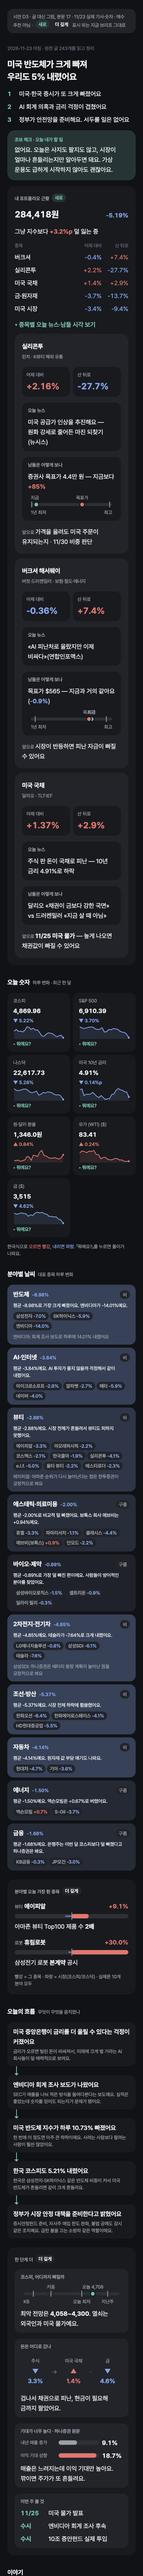
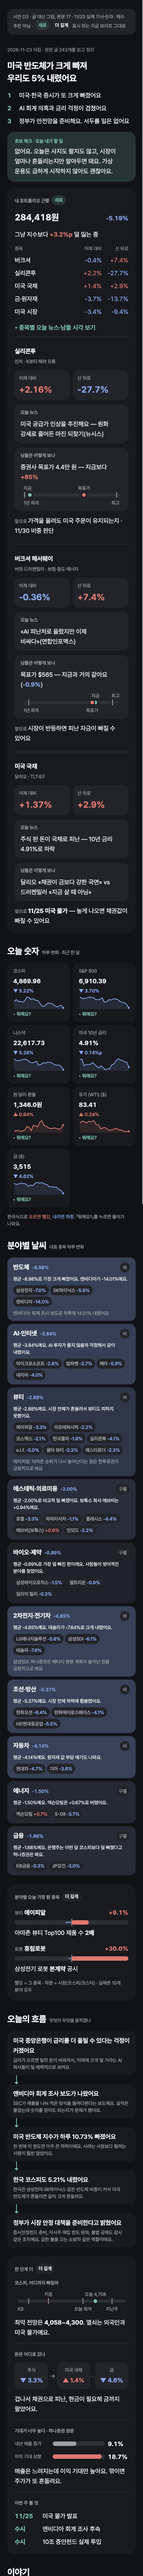
투자 보드: D3 점검 반영

Changed region(s): [[0.0308, 0.0, 0.9538, 1.0], [0.9846, 0.0, 1.0, 0.4671], [0.7692, 0.0934, 0.8923, 0.1246]]

diff --git a/m/dc11e64a669340ed/board/boards/brief-develop/d3.html b/m/dc11e64a669340ed/board/boards/brief-develop/d3.html
@@ -11,7 +11,7 @@
  --grey-50:#101215;--grey-100:#181a1e;--grey-200:#212429;--grey-300:#2c3036;--grey-400:#464c55;
  --grey-500:#6c737d;--grey-600:#9aa1aa;--grey-700:#c2c7ce;--grey-900:#eef0f2;
  --bg:var(--grey-50);--card:var(--grey-100);--subtle:var(--grey-200);--line:var(--grey-300);
- --weak:var(--grey-500);--sub:var(--grey-600);--fg:var(--grey-900);
+ --weak:#8b929b;--sub:var(--grey-600);--fg:var(--grey-900);
  --pri:#5fc2ae;--pri-s:color-mix(in srgb,var(--pri) 16%,var(--card));
  --up:#f0706a;--up-s:color-mix(in srgb,var(--up) 16%,var(--card));
  --down:#7ea6f2;--down-s:color-mix(in srgb,var(--down) 16%,var(--card));
@@ -24,7 +24,8 @@ body{margin:0;background:var(--bg);color:var(--fg);font-family:var(--font);font-
  padding:24px max(20px,env(safe-area-inset-right,0px)) 64px max(20px,env(safe-area-inset-left,0px))}
 h1,h2,h3,h4,p{margin:0}
 h1{font-size:24px;line-height:34px;font-weight:700;letter-spacing:-0.02em}
-h2,h3{font-size:17px;line-height:27px;font-weight:700;letter-spacing:-0.02em}
+h2{font-size:24px;line-height:34px;font-weight:700;letter-spacing:-0.02em}
+h3{font-size:17px;line-height:27px;font-weight:700;letter-spacing:-0.02em}
 h4{font-size:13px;line-height:19px;font-weight:600;color:var(--sub)}
 small,.cap,.note{font-size:13px;line-height:19px}
 .cap{color:var(--weak)} .note{color:var(--sub)} .sub{color:var(--sub)}
@@ -41,7 +42,7 @@ details>summary::before{content:"▸ ";} details[open]>summary::before{content:"
 ul{margin:0;padding-left:20px}
 .card{background:var(--card);border-radius:var(--r-card);padding:20px;display:flex;flex-direction:column;gap:12px}
 .in{background:var(--subtle);border-radius:var(--r-btn);padding:12px 16px}
-.chip{display:inline-block;font-size:13px;line-height:19px;font-weight:600;border-radius:var(--r-chip);padding:2px 8px;background:var(--subtle);color:var(--sub);white-space:nowrap}
+.chip{display:inline-block;font-size:13px;line-height:19px;font-weight:600;border-radius:var(--r-chip);padding:4px 8px;background:var(--subtle);color:var(--sub);white-space:nowrap}
 .chip.ok{background:var(--pri-s);color:var(--pri)} .chip.bad{background:var(--up-s);color:var(--up)}
 .row{display:flex;justify-content:space-between;align-items:baseline;gap:12px}
 @media (prefers-reduced-motion:reduce){*{transition:none!important}}
@@ -50,7 +51,7 @@ ul{margin:0;padding-left:20px}
 .wrap{max-width:560px;margin:0 auto;display:flex;flex-direction:column;gap:32px}
 h1{text-wrap:balance}
 h2{display:flex;align-items:baseline;gap:8px;flex-wrap:wrap}
-h2 small{color:var(--sub);font-weight:400}
+h2 small{color:var(--sub);font-weight:400;font-size:13px;line-height:19px}
 .eyebrow{font-size:13px;line-height:19px;color:var(--weak)}
 section{display:flex;flex-direction:column;gap:16px}
 .top{display:flex;flex-direction:column;gap:16px}
@@ -79,7 +80,7 @@ section{display:flex;flex-direction:column;gap:16px}
 .sec .hd{display:flex;align-items:baseline;gap:8px;flex-wrap:wrap;color:var(--fg)}
 .sec .hd b{font-weight:700}
 .sec .hd .avg{font-size:13px;line-height:19px;font-weight:600;font-variant-numeric:tabular-nums}
-.sec .mood{margin-left:auto;font-size:13px;line-height:19px;border-radius:var(--r-chip);padding:2px 8px;color:var(--sub);background:var(--subtle)}
+.sec .mood{margin-left:auto;font-size:13px;line-height:19px;border-radius:var(--r-chip);padding:4px 8px;color:var(--sub);background:var(--subtle)}
 .sec .ln{font-size:13px;line-height:19px;color:var(--fg)}
 .chips{display:flex;flex-wrap:wrap;gap:4px}
 .chip i{font-style:normal}
@@ -140,7 +141,7 @@ footer{font-size:13px;line-height:19px;color:var(--weak)}
 @media (prefers-reduced-motion:no-preference){.node,.story{transition:opacity .2s}}
 </style>
 <style>
-.mk{display:inline-block;font-size:13px;line-height:19px;font-weight:600;border-radius:999px;padding:2px 8px;background:var(--pri-s);color:var(--pri);margin-left:4px;vertical-align:2px}
+.mk{display:inline-block;font-size:13px;line-height:19px;font-weight:600;border-radius:999px;padding:4px 8px;background:var(--pri-s);color:var(--pri);margin-left:4px;vertical-align:2px}
 .mk.deep{background:var(--subtle);color:var(--fg)}
 .lab{font-size:13px;line-height:19px;color:var(--sub)}
 .cardx{background:var(--card);border-radius:var(--r-card);padding:20px;display:flex;flex-direction:column;gap:16px}
@@ -180,6 +181,9 @@ footer{font-size:13px;line-height:19px;color:var(--weak)}
 .pfrow{display:grid;grid-template-columns:1fr auto auto;gap:8px 16px;align-items:baseline}
 .pfrow .r{text-align:right;font-variant-numeric:tabular-nums}
 .pfrow .h{font-size:13px;line-height:19px;color:var(--weak);text-align:right}
+.hold{display:flex;flex-direction:column;gap:12px;padding-top:24px;border-top:1px solid var(--line)}
+.part{display:flex;flex-direction:column;gap:12px;padding-top:20px;border-top:1px solid var(--line)}.part:first-of-type{padding-top:0;border-top:0}
+.part .t{font-size:13px;line-height:19px;font-weight:600;color:var(--sub)}
 .leg{background:var(--subtle);border-radius:var(--r-btn);padding:12px 16px}
 </style></head><body>
 
@@ -198,21 +202,21 @@ footer{font-size:13px;line-height:19px;color:var(--weak)}
 <span>미국 국채</span><span class="r up">+1.4%</span><span class="r up">+2.9%</span>
 <span>금·원자재</span><span class="r down">-3.7%</span><span class="r down">-13.7%</span>
 <span>미국 시장</span><span class="r down">-3.4%</span><span class="r down">-9.4%</span></div>
-<details><summary style="font-size:17px;line-height:27px">종목별 오늘 뉴스·남들 시각 보기</summary><div style="display:flex;flex-direction:column;gap:12px;margin-top:12px">
-<div class="cardx" style="background:var(--subtle)"><div class="hd2"><div><h3 style="margin:0">실리콘투</h3><span class="lab">린치 · K뷰티 해외 유통</span></div></div>
-<div class="tiles2"><div class="tl" style="background:var(--card)"><span class="lab">어제 대비</span><span class="v num up">+2.16%</span></div><div class="tl" style="background:var(--card)"><span class="lab">산 뒤로</span><span class="v num down">-27.7%</span></div></div>
-<div class="box" style="background:var(--card)"><span class="t">오늘 뉴스</span><p class="say">미국 공급가 인상을 추진해요 — 원화 강세로 줄어든 마진 되찾기(뉴시스)</p></div>
-<div class="box" style="background:var(--card)"><span class="t">남들은 어떻게 보나</span><p class="say">증권사 목표가 4.4만 원 — 지금보다 <b class='up'>+85%</b></p><div class="gauge"><div class="ln"></div><div class="tk" style="left:1.2070308154410947%"></div><span class="lb dn" style="left:0;transform:none">1년 최저</span><div class="tk" style="left:96.87951941261542%"></div><span class="lb dn" style="right:0;left:auto;transform:none">최고</span><div class="pt" style="left:6.769384803648905%;background:var(--pri)"></div><span class="lb up" style="left:0;transform:none">지금</span><div class="pt" style="left:63.01312715541217%;background:var(--up)"></div><span class="lb up" style="left:63.01312715541217%">목표가</span></div></div>
+<details><summary style="font-size:17px;line-height:27px">종목별 오늘 뉴스·남들 시각 보기</summary><div style="display:flex;flex-direction:column;gap:24px;margin-top:12px">
+<div class="hold"><div class="hd2"><div><h3 style="margin:0">실리콘투</h3><span class="lab">린치 · K뷰티 해외 유통</span></div></div>
+<div class="tiles2"><div class="tl"><span class="lab">어제 대비</span><span class="v num up">+2.16%</span></div><div class="tl"><span class="lab">산 뒤로</span><span class="v num down">-27.7%</span></div></div>
+<div class="box"><span class="t">오늘 뉴스</span><p class="say">미국 공급가 인상을 추진해요 — 원화 강세로 줄어든 마진 되찾기(뉴시스)</p></div>
+<div class="box"><span class="t">남들은 어떻게 보나</span><p class="say">증권사 목표가 4.4만 원 — 지금보다 <b class='up'>+85%</b></p><div class="gauge"><div class="ln"></div><div class="pt" style="left:6.769384803648905%;background:var(--pri)"></div><span class="lb up" style="left:0;transform:none">지금</span><div class="pt" style="left:63.01312715541217%;background:var(--up)"></div><span class="lb up" style="left:63.01312715541217%">목표가</span><div class="tk" style="left:1.2070308154410947%"></div><span class="lb dn" style="left:0;transform:none">1년 최저</span><div class="tk" style="left:96.87951941261542%"></div><span class="lb dn" style="right:0;left:auto;transform:none">최고</span></div></div>
 <p class="say"><span class="lab">앞으로 </span>가격을 올려도 미국 주문이 유지되는지 · 11/30 비중 판단</p></div>
-<div class="cardx" style="background:var(--subtle)"><div class="hd2"><div><h3 style="margin:0">버크셔 해서웨이</h3><span class="lab">버핏·드러켄밀러 · 보험·철도·에너지</span></div></div>
-<div class="tiles2"><div class="tl" style="background:var(--card)"><span class="lab">어제 대비</span><span class="v num down">-0.36%</span></div><div class="tl" style="background:var(--card)"><span class="lab">산 뒤로</span><span class="v num up">+7.4%</span></div></div>
-<div class="box" style="background:var(--card)"><span class="t">오늘 뉴스</span><p class="say">«AI 피난처로 올랐지만 이제 비싸다»(연합인포맥스)</p></div>
-<div class="box" style="background:var(--card)"><span class="t">남들은 어떻게 보나</span><p class="say">목표가 $565 — 지금과 거의 같아요(<b class='down'>-0.9%</b>)</p><div class="gauge"><div class="ln"></div><div class="tk" style="left:5.478627332931982%"></div><span class="lb dn" style="left:0;transform:none">1년 최저</span><div class="tk" style="left:92.77543648404576%"></div><span class="lb dn" style="right:0;left:auto;transform:none">최고</span><div class="pt" style="left:74.71402769416015%;background:var(--pri)"></div><span class="lb up" style="left:74.71402769416015%">지금</span><div class="pt" style="left:71.50511739915711%;background:var(--up)"></div><span class="lb up" style="left:71.50511739915711%">목표가</span></div></div>
+<div class="hold"><div class="hd2"><div><h3 style="margin:0">버크셔 해서웨이</h3><span class="lab">버핏·드러켄밀러 · 보험·철도·에너지</span></div></div>
+<div class="tiles2"><div class="tl"><span class="lab">어제 대비</span><span class="v num down">-0.36%</span></div><div class="tl"><span class="lab">산 뒤로</span><span class="v num up">+7.4%</span></div></div>
+<div class="box"><span class="t">오늘 뉴스</span><p class="say">«AI 피난처로 올랐지만 이제 비싸다»(연합인포맥스)</p></div>
+<div class="box"><span class="t">남들은 어떻게 보나</span><p class="say">목표가 $565 — 지금과 거의 같아요(<b class='down'>-0.9%</b>)</p><div class="gauge"><div class="ln"></div><div class="pt" style="left:74.71402769416015%;background:var(--pri)"></div><span class="lb up" style="left:74.71402769416015%">지금</span><div class="pt" style="left:71.50511739915711%;background:var(--up)"></div><span class="lb dn" style="left:71.50511739915711%">목표가</span><div class="tk" style="left:5.478627332931982%"></div><span class="lb dn" style="left:0;transform:none">1년 최저</span><div class="tk" style="left:92.77543648404576%"></div><span class="lb up" style="right:0;left:auto;transform:none">최고</span></div></div>
 <p class="say"><span class="lab">앞으로 </span>시장이 반등하면 피난 자금이 빠질 수 있어요</p></div>
-<div class="cardx" style="background:var(--subtle)"><div class="hd2"><div><h3 style="margin:0">미국 국채</h3><span class="lab">달리오 · TLT·IEF</span></div></div>
-<div class="tiles2"><div class="tl" style="background:var(--card)"><span class="lab">어제 대비</span><span class="v num up">+1.37%</span></div><div class="tl" style="background:var(--card)"><span class="lab">산 뒤로</span><span class="v num up">+2.9%</span></div></div>
-<div class="box" style="background:var(--card)"><span class="t">오늘 뉴스</span><p class="say">주식 판 돈이 국채로 피난 — 10년 금리 4.91%로 하락</p></div>
-<div class="box" style="background:var(--card)"><span class="t">남들은 어떻게 보나</span><p class="say">달리오 «채권이 금보다 강한 국면» vs 드러켄밀러 «지금 살 때 아님»</p></div>
+<div class="hold"><div class="hd2"><div><h3 style="margin:0">미국 국채</h3><span class="lab">달리오 · TLT·IEF</span></div></div>
+<div class="tiles2"><div class="tl"><span class="lab">어제 대비</span><span class="v num up">+1.37%</span></div><div class="tl"><span class="lab">산 뒤로</span><span class="v num up">+2.9%</span></div></div>
+<div class="box"><span class="t">오늘 뉴스</span><p class="say">주식 판 돈이 국채로 피난 — 10년 금리 4.91%로 하락</p></div>
+<div class="box"><span class="t">남들은 어떻게 보나</span><p class="say">달리오 «채권이 금보다 강한 국면» vs 드러켄밀러 «지금 살 때 아님»</p></div>
 <p class="say"><span class="lab">앞으로 </span><b>11/25 미국 물가</b> — 높게 나오면 채권값이 빠질 수 있어요</p></div>
 </div></details></div></header>
 <section>
@@ -235,26 +239,26 @@ footer{font-size:13px;line-height:19px;color:var(--weak)}
     <h2>오늘의 흐름 <small>무엇이 무엇을 움직였나</small></h2>
     <div class="chain" id="chain"></div>
   <div class="cardx" style="margin-top:8px"><span class="lab" style="font-weight:600">한 단계 더 <span class="mk deep">더 깊게</span></span>
-<div class="box"><span class="t">코스피, 어디까지 빠질까</span>
-<div class="gauge"><div class="ln"></div><div class="band" style="left:23.809523809523807%;width:9.523809523809522%"></div><div class="tk" style="left:10.285714285714285%"></div><span class="lb dn" style="left:0;transform:none">KB</span><div class="tk" style="left:28.57142857142857%"></div><span class="lb up" style="left:28.57142857142857%">키움</span><div class="tk" style="left:60.66666666666667%"></div><span class="lb dn" style="left:60.66666666666667%">오늘 최저</span><div class="pt" style="left:72.19047619047619%;background:var(--pri)"></div><span class="lb up" style="left:72.19047619047619%">오늘 4,708</span><div class="tk" style="left:87.61904761904762%"></div><span class="lb dn" style="left:87.61904761904762%">지난주</span></div>
+<div class="part"><span class="t">코스피, 어디까지 빠질까</span>
+<div class="gauge"><div class="ln"></div><div class="band" style="left:23.809523809523807%;width:9.523809523809522%"></div><div class="pt" style="left:72.19047619047619%;background:var(--pri)"></div><span class="lb up" style="left:72.19047619047619%">오늘 4,708</span><div class="tk" style="left:10.285714285714285%"></div><span class="lb dn" style="left:0;transform:none">KB</span><div class="tk" style="left:28.57142857142857%"></div><span class="lb up" style="left:28.57142857142857%">키움</span><div class="tk" style="left:60.66666666666667%"></div><span class="lb dn" style="left:60.66666666666667%">오늘 최저</span><div class="tk" style="left:87.61904761904762%"></div><span class="lb dn" style="left:87.61904761904762%">지난주</span></div>
 <p class="say">최악 전망은 <b>4,058~4,300</b>. 열쇠는 외국인과 미국 물가예요.</p></div>
-<div class="box"><span class="t">돈은 어디로 갔나</span><div class="flow3">
+<div class="part"><span class="t">돈은 어디로 갔나</span><div class="flow3">
 <div class="tl"><span class="lab">주식</span><b class="down">▼ 3.3%</b></div><span class="arw">→</span>
 <div class="tl"><span class="lab">미국 국채</span><b class="up">▲ 1.4%</b></div><span class="arw">·</span>
 <div class="tl"><span class="lab">금</span><b class="down">▼ 4.6%</b></div></div>
 <p class="say">겁나서 채권으로 피난, 현금이 필요해 금까지 팔았어요.</p></div>
-<div class="box"><span class="t">기대가 너무 높다 · 하나증권 원문</span><div class="cmp">
+<div class="part"><span class="t">기대가 너무 높다 · 하나증권 원문</span><div class="cmp">
 <div class="r"><span class="lab">내년 매출 증가</span><div class="bar"><i style="width:45.49999999999999%;background:var(--sub)"></i></div><b class="num">9.1%</b></div>
 <div class="r"><span class="lab">이익 기대 상향</span><div class="bar"><i style="width:93.5%;background:var(--up)"></i></div><b class="num">18.7%</b></div></div>
 <p class="say">매출은 느려지는데 이익 기대만 높아요. 깎이면 주가가 또 흔들려요.</p></div>
-<div class="box"><span class="t">이번 주 볼 것</span><div class="when">
+<div class="part"><span class="t">이번 주 볼 것</span><div class="when">
 <div class="w"><span class="d">11/25</span><span class="say">미국 물가 발표</span></div>
 <div class="w"><span class="d">수시</span><span class="say">엔비디아 회계 조사 후속</span></div>
 <div class="w"><span class="d">수시</span><span class="say">10조 증안펀드 실제 투입</span></div></div></div></div></section>
 <section>
     <h2>이야기</h2>
     <div class="tabs" id="tabs" role="group" aria-label="주제 고르기"></div>
-    <div id="stories" style="display:flex;flex-direction:column;gap:14px"></div>
+    <div id="stories" style="display:flex;flex-direction:column;gap:16px"></div>
   </section>
 <section id="recall-sec">
     <h2>기억나세요? <small>지난 이야기, 다른 각도</small></h2>
@@ -265,14 +269,14 @@ footer{font-size:13px;line-height:19px;color:var(--weak)}
 <div class="cardx"><div class="hd2"><div><h3 style="margin:0">에이피알</h3><span class="lab">코스피 · 메디큐브·뷰티 기기</span></div><b class="num up">+9.13%</b></div>
 <p class="say"><b>급락장 역주행 — 블프에서 숫자로 확인됐어요</b></p>
 <div class="tiles3"><div class="tl"><span class="lab">아마존 Top100</span><span class="v num">×2</span></div><div class="tl"><span class="lab">목표가까지</span><span class="v num">+77%</span></div><div class="tl"><span class="lab">PER</span><span class="v num">20.5배</span></div></div>
-<div class="box"><span class="t">1년 가격 중 지금 자리</span><div class="gauge"><div class="ln"></div><div class="tk" style="left:3.571428571428571%"></div><span class="lb dn" style="left:0;transform:none">1년 최저</span><div class="tk" style="left:98.21428571428571%"></div><span class="lb dn" style="right:0;left:auto;transform:none">최고</span><div class="pt" style="left:20.357142857142858%;background:var(--pri)"></div><span class="lb up" style="left:20.357142857142858%">지금 25.7만</span><div class="pt" style="left:91.47714285714285%;background:var(--up)"></div><span class="lb up" style="right:0;left:auto;transform:none">목표 45.6만</span></div></div>
+<div class="box"><span class="t">1년 가격 중 지금 자리</span><div class="gauge"><div class="ln"></div><div class="pt" style="left:20.357142857142858%;background:var(--pri)"></div><span class="lb up" style="left:20.357142857142858%">지금 25.7만</span><div class="pt" style="left:91.47714285714285%;background:var(--up)"></div><span class="lb up" style="right:0;left:auto;transform:none">목표 45.6만</span><div class="tk" style="left:3.571428571428571%"></div><span class="lb dn" style="left:0;transform:none">1년 최저</span><div class="tk" style="left:98.21428571428571%"></div><span class="lb dn" style="right:0;left:auto;transform:none">최고</span></div></div>
 <p class="say">블프는 1년 중 가장 큰 시즌이라 순위가 오르면 4분기 실적에 바로 보여요.</p>
 <div class="box warn"><span class="t">조심할 점</span><p class="say">반토막 뒤 첫 반등 — 단기 매수일 수 있어요</p><p class="say">이해충돌 확인 필요 · 병·의원 기기 진출</p></div>
 <p class="say"><span class="lab">앞으로 </span>12월 초 화장품 수출 통계</p></div>
 <div class="cardx"><div class="hd2"><div><h3 style="margin:0">휴림로봇</h3><span class="lab">코스닥 · 산업용 로봇</span></div><b class="num up">+30.0%</b></div>
 <p class="say"><b>공시 하나로 상한가 — 돈 버는지는 아직 몰라요</b></p>
 <div class="tiles3"><div class="tl"><span class="lab">거래량(주)</span><span class="v num">1,029만</span></div><div class="tl"><span class="lab">로봇 상한가</span><span class="v num">5종목</span></div><div class="tl"><span class="lab">계약 금액</span><span class="v num">확인 중</span></div></div>
-<div class="box"><span class="t">1년 가격 중 지금 자리</span><div class="gauge"><div class="ln"></div><div class="tk" style="left:2.979166666666667%"></div><span class="lb dn" style="left:0;transform:none">1년 최저</span><div class="tk" style="left:96.25%"></div><span class="lb dn" style="right:0;left:auto;transform:none">최고</span><div class="pt" style="left:9.25%;background:var(--pri)"></div><span class="lb up" style="left:0;transform:none">지금 5,720</span></div></div>
+<div class="box"><span class="t">1년 가격 중 지금 자리</span><div class="gauge"><div class="ln"></div><div class="pt" style="left:9.25%;background:var(--pri)"></div><span class="lb up" style="left:0;transform:none">지금 5,720</span><div class="tk" style="left:2.979166666666667%"></div><span class="lb dn" style="left:0;transform:none">1년 최저</span><div class="tk" style="left:96.25%"></div><span class="lb dn" style="right:0;left:auto;transform:none">최고</span></div></div>
 <p class="say">대기업 공장 자동화에 실제로 들어가면 다른 공장으로 번질 수 있어요.</p>
 <div class="box warn"><span class="t">조심할 점</span><p class="say">적자 회사 · 증권사 분석 없음</p><p class="say">테마 상한가는 며칠 안에 되돌리기 쉬워요</p></div>
 <p class="say"><span class="lab">앞으로 </span>공시 원문의 계약 금액(매출 대비 %)</p></div>
@@ -296,7 +300,7 @@ footer{font-size:13px;line-height:19px;color:var(--weak)}
 <section>
     <h2>더 읽고 싶다면 <small>안 읽어도 괜찮아요</small></h2>
     <ul class="reads" id="reads"></ul>
-    <details id="openedBox" style="margin-top:12px" hidden><summary id="openedSum">AI가 오늘 직접 열어 본 리포트·기사</summary><ul class="reads" id="opened" style="margin-top:10px"></ul></details>
+    <details id="openedBox" style="margin-top:12px" hidden><summary id="openedSum">AI가 오늘 직접 열어 본 리포트·기사</summary><ul class="reads" id="opened" style="margin-top:12px"></ul></details>
   </section>
 <section>
     <h2>지난 아침</h2>

diff --git a/m/dc11e64a669340ed/board/index.html b/m/dc11e64a669340ed/board/index.html
@@ -71,10 +71,19 @@ th{color:var(--sub);font-weight:600}
 <p class="note">나머지는 회색 9단계. 다혜가 직접 보는 도구라 어두운 바탕 고정. 그래프는 에이전트별 색 대신 회색 선 + 1등만 브랜드 색 + 선 끝 이름표. 정본 코드: invest-brief 저장소 kit_css.py.</p></section>
 
 <section class="card"><div class="row"><h2>아침 브리프 디벨롭 · 시안 D3</h2><span class="chip">제안 · 다혜 확인 대기</span></div>
-<p class="sub">다혜 피드백 3차(11/23): ① 포트폴리오 배너 배경을 다른 카드와 같은 짙은 회색 ② 분야별 튄 종목·한 단계 더·떠오르는 종목은 글이 많고 글씨가 작다 → 그림으로. 본문 13 → 17, 문장 한 줄 안팎. 막대(종목 vs 시장), 눈금자(코스피 전망·1년 가격 중 지금 자리와 목표가), 큰 숫자 타일, 돈의 흐름 타일, 일정표로 바꿨어요.</p>
+<p class="sub">글 대신 그림, 본문 17. 다혜 요청(11/23)으로 페이지 전체를 브라우저에서 전수 점검하고 고쳤어요.</p>
+<div class="tw"><table><tr><th>점검 항목</th><th>처음</th><th>고친 뒤</th></tr>
+<tr><td>글자 크기·줄간격 짝</td><td>24/34·17/27·13/19만</td><td>그대로 통과</td></tr>
+<tr><td>위계: 섹션 제목 vs 카드 제목</td><td>둘 다 17·700 — 구분 안 됨</td><td>섹션 24·700 / 카드 17·700 / 본문 17·400 / 이름표 13</td></tr>
+<tr><td>4px 간격 밖 여백</td><td>54곳(칩 2px, 묶음 14px, 위 여백 10px)</td><td>0곳</td></tr>
+<tr><td>섹션 사이 간격</td><td>32 (14곳)</td><td>32 (14곳)</td></tr>
+<tr><td>모서리</td><td>20·16·999</td><td>20·16·999</td></tr>
+<tr><td>상자 3겹 겹침</td><td>3곳</td><td>0곳(안쪽은 구분선)</td></tr>
+<tr><td>글자 대비 4.5 미만</td><td>12곳(날짜·출처·표 머리 3.3~3.9)</td><td>0곳</td></tr>
+<tr><td>눈금자 이름표 겹침</td><td>1곳(버크셔 지금·목표가)</td><td>0곳</td></tr></table></div>
+<p class="note">같은 공통 기준값을 쓰는 운용 장부·주문 근거도 같은 점검으로 0곳(주문 근거의 여백 10·14·6·2px와 3겹 가설 칸도 고침). 검수 범위: 휴대폰 390 자동 측정 + 화면 사진. 실기기 아이폰은 아직.</p>
 <div class="grid"><div class="in" style="display:flex;flex-direction:column;gap:8px;grid-column:1/-1"><div class="row"><h3>시안 D3</h3><span class="chip">휴대폰 약 18장</span></div>
-<p class="note"><a href="boards/brief-develop/d3.html">크게 열기</a> · 사진은 포트폴리오 상세를 펼친 상태</p><div class="shot" style="max-width:420px"><img src="boards/brief-develop/d3.png" alt="시안 D3"></div></div></div>
-<p class="note">검수: 휴대폰 390에서 글자 24/34·17/27·13/19만, 모서리 20·16·999, 가로 넘침 0(옆으로 미는 이야기 탭 제외). 미확인: 휴림로봇 계약 금액.</p></section>
+<p class="note"><a href="boards/brief-develop/d3.html">크게 열기</a> · 사진은 포트폴리오 상세를 펼친 상태</p><div class="shot" style="max-width:420px"><img src="boards/brief-develop/d3.png" alt="시안 D3"></div></div></div></section>
 <section class="card"><div class="row"><h2>아침 브리프 디벨롭 · 시안 D2</h2><span class="chip">보관 · D3로 대체</span></div>
 <p class="sub">다혜 피드백 2차(11/23) 반영: ① 순서 = 제목·1·2·3·초보 체크 → 같은 모양 «내 포트폴리오 근황» 배너 → 오늘 숫자 → 분야별 날씨 → 오늘의 흐름 → 이야기 → 기억나세요? → 떠오르는 종목 → 오늘의 개념 → 오늘의 원칙 → 나머지 기존 순서 ② 봇 물어보기 버튼 삭제 ③ 보유 종목은 어제 대비·산 뒤로 + 오늘 뉴스·남들 시각 중심, 지금 상태·앞으로는 짧게 ④ 떠오르는 종목은 헤드라인이 아니라 «얼마나·왜 중요한가·지금 값·남들 시각·조심할 점·앞으로». 모든 숫자는 11/23 실제 기사·네이버 컨센서스·Yahoo.</p>
 <div class="grid"><div class="in" style="display:flex;flex-direction:column;gap:8px;grid-column:1/-1"><div class="row"><h3>시안 D2</h3><span class="chip">휴대폰 약 19장 · 포트폴리오 상세는 접힘</span></div>
